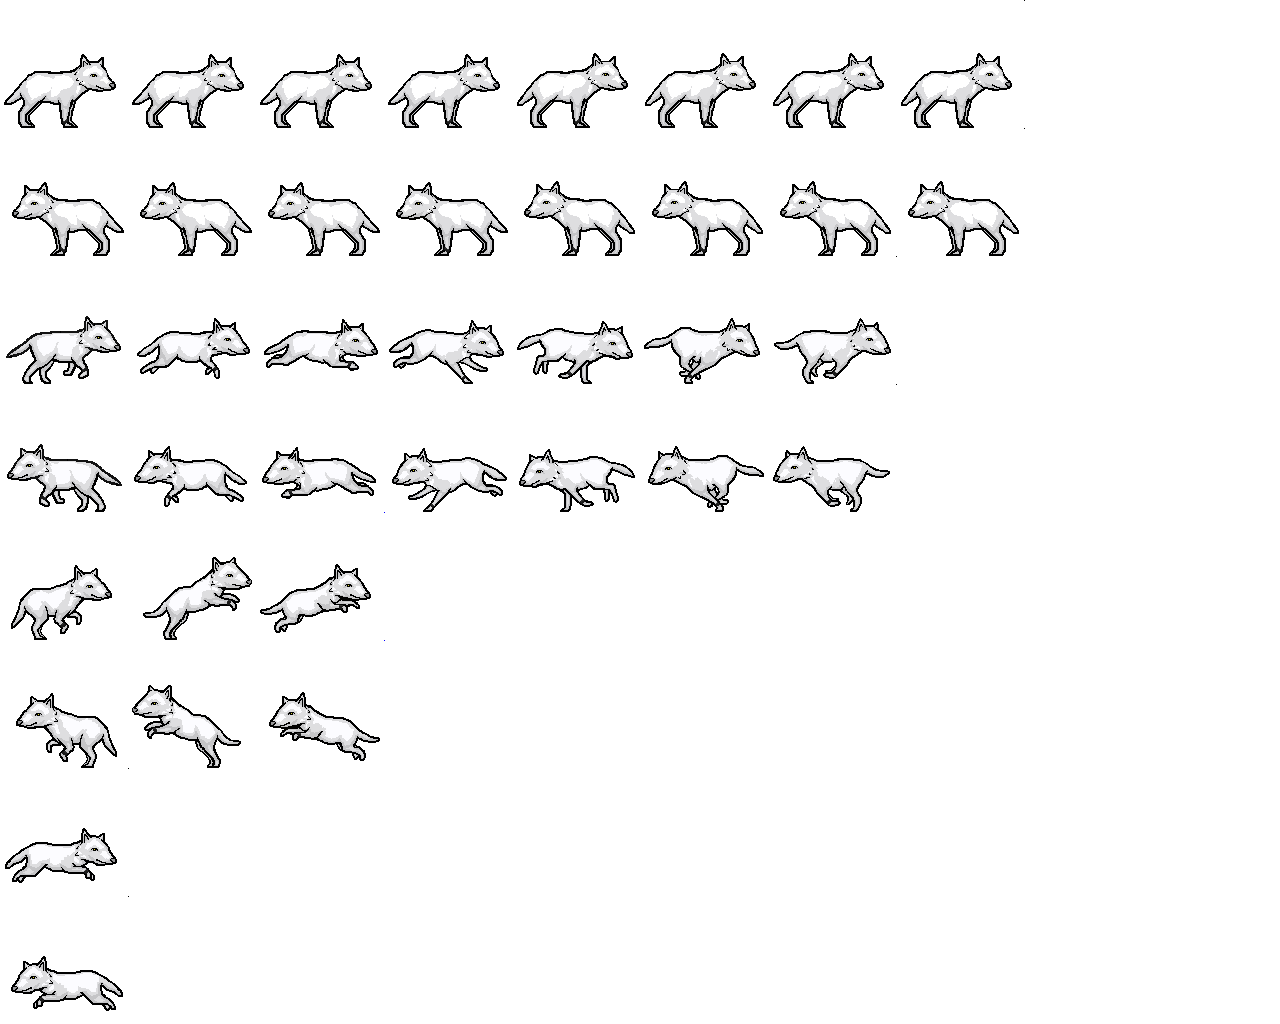
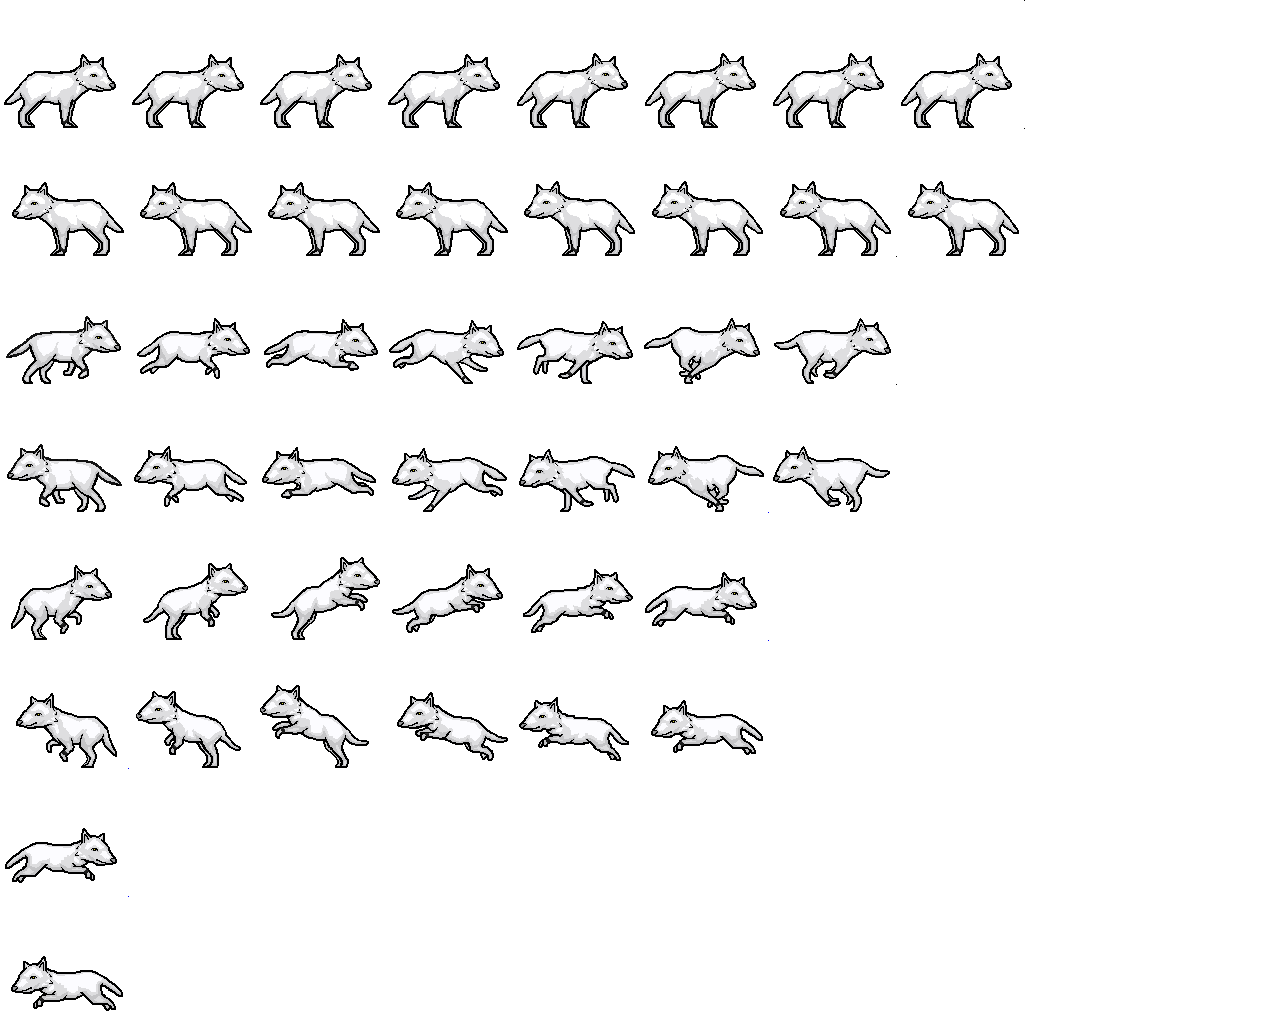
jump animation och uppdatering

Changed region(s): [[0.125, 0.5312, 0.5938, 0.625], [0.3125, 0.6562, 0.5938, 0.75], [0.0938, 0.6562, 0.3125, 0.75]]

diff --git a/The Seekers Way 0.2/EntityManager.cpp b/The Seekers Way 0.2/EntityManager.cpp
@@ -9,7 +9,7 @@
 EntityManager* EntityManager::sInstance = 0;
 
 EntityManager::EntityManager():
-	mPrimaryCharacter(0)
+	mPrimaryCharacter(Entity::SHEEKA)
 	{}
 
 
@@ -36,6 +36,11 @@ void EntityManager::update()
 	}
 
 	mCharacters[mPrimaryCharacter]->update();
+
+	for(CharacterVector::size_type i = 0; i < mCharacters.size(); ++i)
+	{
+		Character::characterUpdate(mCharacters[i], mPrimaryCharacter);
+	}
 
 	killEntity();
 	checkCollisions();
@@ -191,11 +196,11 @@ void EntityManager::primaryCharacter()
 {
 	if(sf::Keyboard::isKeyPressed(sf::Keyboard::Num1))
 	{
-		mPrimaryCharacter = 0;
+		mPrimaryCharacter = Entity::SHEEKA;
 	}
 	else if(sf::Keyboard::isKeyPressed(sf::Keyboard::Num2))
 	{
-		mPrimaryCharacter = 1;
+		mPrimaryCharacter = Entity::FENRIR;
 	}
 }
 

diff --git a/The Seekers Way 0.2/Character.h b/The Seekers Way 0.2/Character.h
@@ -13,6 +13,8 @@ public:
 	~Character();
 	void onblock();
 
+	static void characterUpdate(Character* character, EntityKind &entityKind);
+
 protected:
 
 	enum Status
@@ -20,11 +22,11 @@ protected:
 		IDLE,
 		WALK,
 		JUMP,
-		JUMPING,
+		INAIR,
 		ACTION1,
 		ACTION2
 	};
-
+	
 	Status mStatus;
 	bool mDirLeft;
 
@@ -32,7 +34,7 @@ protected:
 
 	Animation mAnimation;
 
-	void move();
+	void move(EntityKind &e);
 	void jump();
 	void walk();
 	void falling();

diff --git a/The Seekers Way 0.2/Kiba.cpp b/The Seekers Way 0.2/Kiba.cpp
@@ -18,14 +18,14 @@ Kiba::~Kiba()
 
 void Kiba::update()
 {
-	move();
 	walk();
-	mAnimation.update(0);
-	mAnimation.setPosition(sf::Vector2f(mPosition.x - 64, mPosition.y -96));
+	jump();
 }
 
 sf::Sprite Kiba::getSprite()
 {
+	mAnimation.update(0);
+	mAnimation.setPosition(sf::Vector2f(mPosition.x - 64, mPosition.y -96));
 	return mAnimation.getSprite();
 }
 

diff --git a/The Seekers Way 0.2/EntityManager.h b/The Seekers Way 0.2/EntityManager.h
@@ -3,8 +3,8 @@
 
 #include <vector>
 #include "SFML\Graphics.hpp"
+#include "Entity.h"
 
-class Entity;
 class Block;
 class Character;
 
@@ -39,7 +39,7 @@ private:
 	void stopEntity(Character *c, Entity *e);
 	void killEntity();
 
-	int mPrimaryCharacter;
+	Entity::EntityKind mPrimaryCharacter;
 
 	EntityVector mEntities;
 	CharacterVector mCharacters;

diff --git a/The Seekers Way 0.2/Entity.h b/The Seekers Way 0.2/Entity.h
@@ -6,7 +6,7 @@
 class Entity
 {
 public:
-	enum EntityKind {KIBA, FENRIR, CHARLOTTE, SHEEKA, 
+	enum EntityKind {SHEEKA, FENRIR, CHARLOTTE, KIBA, 
 	NORMALBLOCK, BUTTON, DOOR, STONE, BROKENWALL, 
 	SHOTTINGTRAP, WALLTRAP, WOODENWALL, VINE, 
 	FLOORTRAP, ARROW, SHIELD, PORTAL, LEVER};

diff --git a/The Seekers Way 0.2/Sheeka.cpp b/The Seekers Way 0.2/Sheeka.cpp
@@ -25,15 +25,11 @@ Sheeka::~Sheeka()
 
 void Sheeka::update()
 {
-	move();
-
 	if(mDash == false)
 	{
 		walk();
 		jump();
-		falling();
 	}
-
 	SheekaDash();
 }
 

diff --git a/The Seekers Way 0.2/Fenrir.cpp b/The Seekers Way 0.2/Fenrir.cpp
@@ -20,11 +20,9 @@ Fenrir::~Fenrir()
 
 void Fenrir::update()
 {
-	move();
 	walk();
 	jump();
-	falling();
-	fall();
+
 }
 
 void Fenrir::render()
